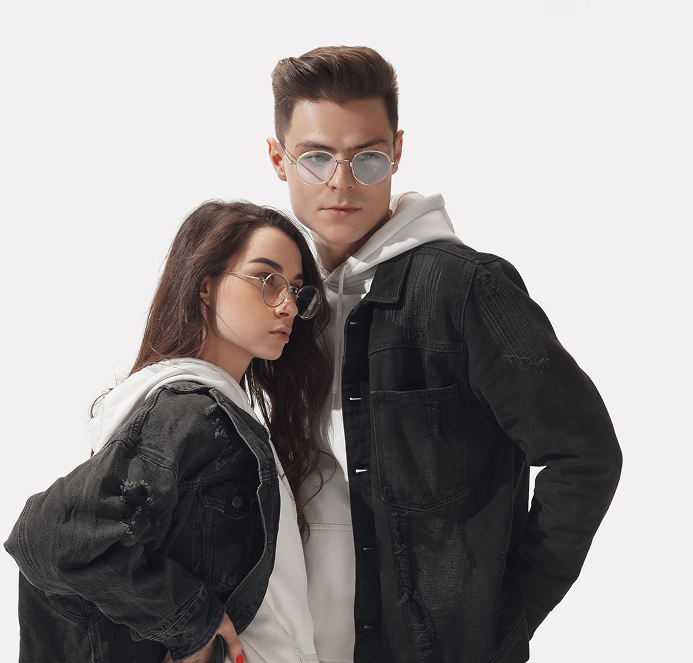
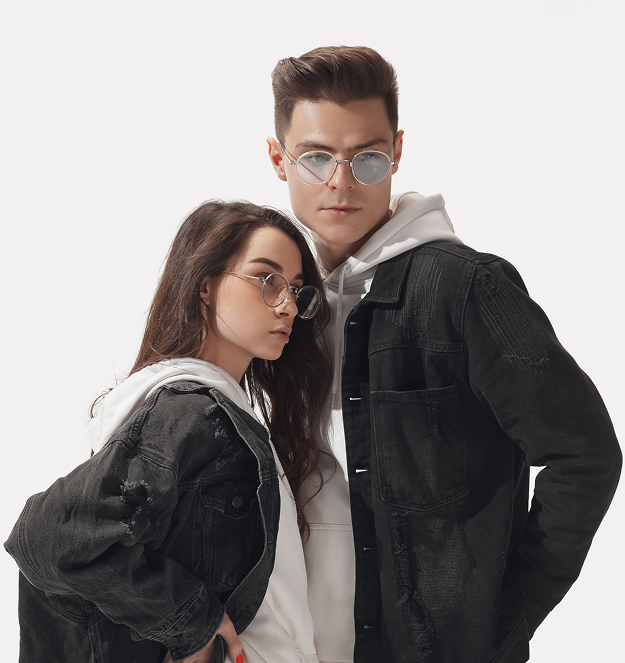
адаптив 65

diff --git a/diploma/layout/css/blocks/hero.css b/diploma/layout/css/blocks/hero.css
@@ -5,6 +5,10 @@
 	z-index: 1;
 }
 
+.hero__container {
+	display: flex;
+}
+
 .hero__wrapper-bg {
 
 	position: absolute;
@@ -30,9 +34,6 @@
 
 .container {}
 
-.hero__container {
-	background-color: #F2F0F1;
-}
 
 .hero__content {
 	max-width: 644px;
@@ -103,10 +104,6 @@
 	margin-inline: clamp(15px, -80.40px + 20.00vw, 32px);
 }
 
-
-
-.stats__content {}
-
 .stats__number {
 	color: #000;
 	font-family: var(--satoshi-700);
@@ -156,8 +153,6 @@
 
 
 @media (width<=1402px) {
-
-
 	.hero__wrapper-bg {
 		display: none;
 	}
@@ -177,7 +172,6 @@
 		padding-block: 20px;
 		column-gap: 35px;
 	}
-
 
 	.brand-bar__icon--desktop,
 	.brand-bar__icon {
@@ -218,5 +212,3 @@
 	}
 
 }
-
-/* нужно сделать bg в контейнере, а конейнеру сделать флекс, разместив картинку рядом с контентом */

diff --git a/diploma/layout/index.html b/diploma/layout/index.html
@@ -207,7 +207,7 @@
 						</div>-->
 					</div>
 				</div>
-				<!--<div class="hero__brand-bar">
+				<div class="hero__brand-bar">
 					<div class="container">
 						<ul class="brand-bar__list">
 							<li class="brand-bar__logo">
@@ -272,7 +272,7 @@
 							</li>
 						</ul>
 					</div>
-				</div>-->
+				</div>
 			</section>
 		</main>
 	</body>
